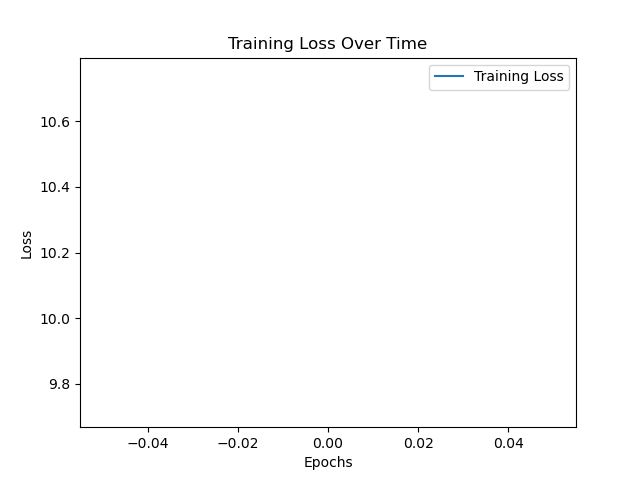
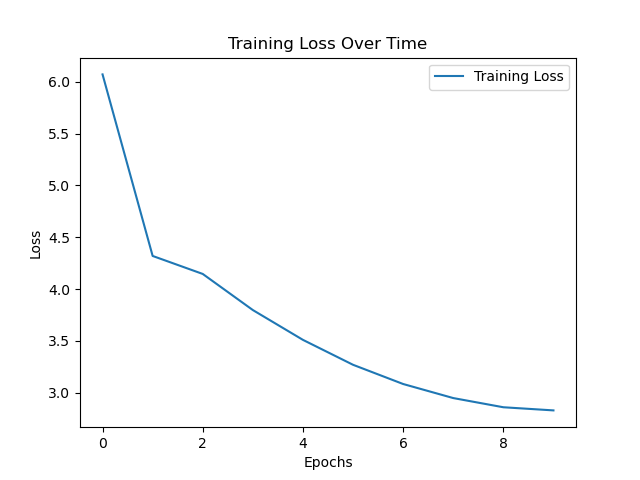
other minor changes, still low accuracy

diff --git a/old_notebooks/features-extractors/PathDino/PathDino_main_512.py b/old_notebooks/features-extractors/PathDino/PathDino_main_512.py
@@ -150,10 +150,16 @@ def plot_tsne(features, labels, title, filename):
     features = np.array(features)
     if len(features.shape) == 1:
         features = features.reshape(-1, 1)
-    
+
+    # Check the number of samples and features
+    n_samples, n_features = features.shape
+    if n_samples < 2 or n_features < 2:
+        print(f"Insufficient data for t-SNE: n_samples={n_samples}, n_features={n_features}")
+        return
+
     tsne = TSNE(n_components=2, random_state=42)
     tsne_results = tsne.fit_transform(features)
-    
+
     plt.figure(figsize=(10, 7))
     plt.scatter(tsne_results[:, 0], tsne_results[:, 1], c=labels, cmap='viridis', s=5)
     plt.colorbar()
@@ -191,8 +197,8 @@ def extract_embeddings(data_loader, model):
             images = [image.cuda(non_blocking=True) for image in images]
             # Forward pass
             output = model_to_use(images)
-            print(f"Output shape: {output.shape}")
-            print(f"Target shape: {target.shape}")
+            print(f"Output shape: {output.shape}")  # Debug statement
+            print(f"Target shape: {target.shape}")  # Debug statement
             
             # Check dimensions of output and target
             if isinstance(output, list):
@@ -394,7 +400,7 @@ def train_dino(args):
     # Initialize list to store training losses
     training_losses = []
 
-    """ 
+    
     # Main training loop
     for epoch in range(start_epoch, args.epochs):
         data_loader.sampler.set_epoch(epoch)
@@ -432,7 +438,7 @@ def train_dino(args):
     total_time = time.time() - start_time
     total_time_str = str(datetime.timedelta(seconds=int(total_time)))
     print('Training time {}'.format(total_time_str))
-    """
+    
     # Extract embeddings using the trained teacher model (should be better than student)
     svm_classifier, pca, scaler = incremental_pca_svm_train(data_loader, teacher)
 
